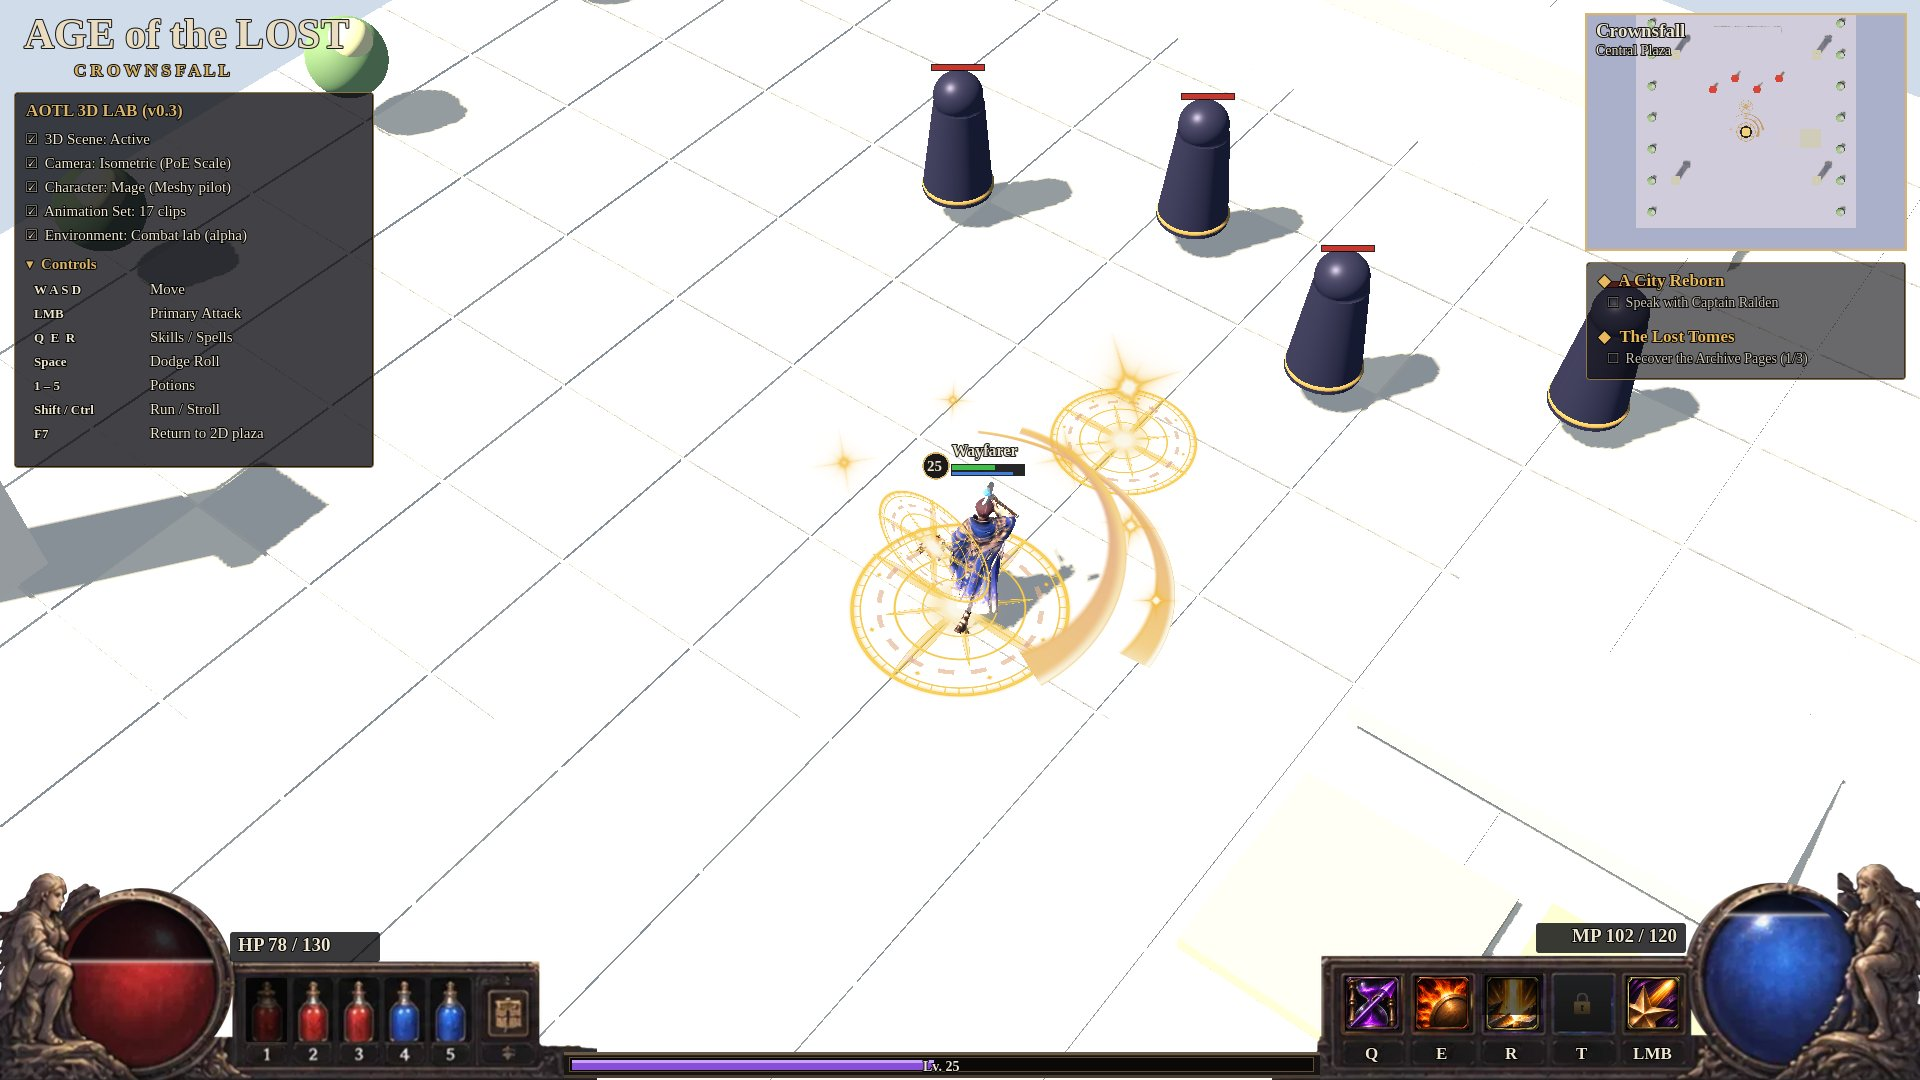
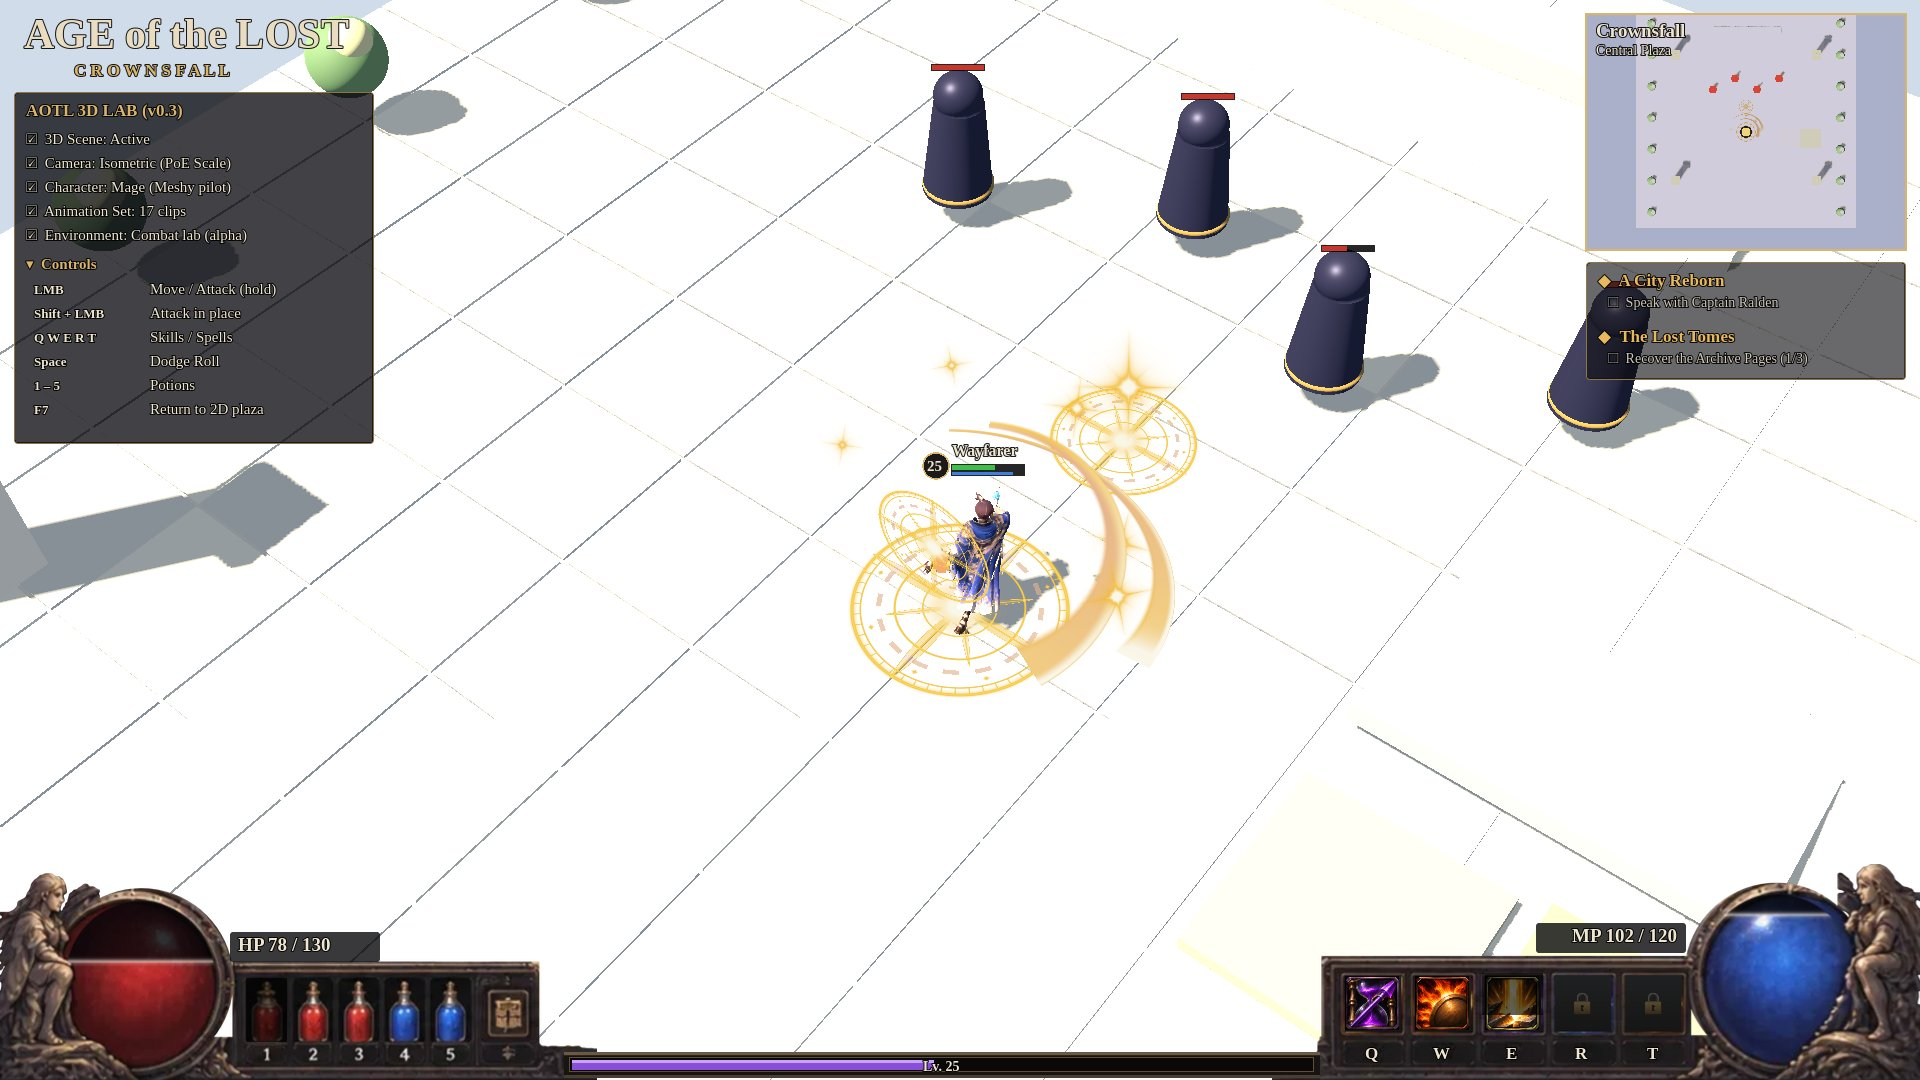
Click-to-move controls for the ARPG labs (Diablo/PoE style)
Owner: the game is click-to-move, not WASD. LMB on the ground walks there
(hold to follow the cursor), LMB on an enemy walks into range and attacks
(Slash 1.6 m, Bolt 5.4 m; hold to keep attacking), Shift+LMB attacks in
place, Q W E R T cast toward the cursor, Space dodges toward it. Skill bar
now reads Q W E R T like the mockup. Bolt/Lance hit at projectile reach.
Legacy debug labs keep WASD. Tests: arpg_hud 52/52, regression 994/994.

Claude-Session: https://claude.ai/code/session_01HXUneWBipxvB69FSMXEcEC

diff --git a/game/crownsfall_lootslice/docs/ARPG_HUD_QA_2026-11-20.md b/game/crownsfall_lootslice/docs/ARPG_HUD_QA_2026-11-20.md
@@ -62,3 +62,16 @@ Not yet: the lab is still a white test floor, not the Crownsfall plaza of the mo
   meniscus, replacing the hard polygon lens. Label plates darkened to match the mockup.
 - Tests: arpg_hud 42/42 (adds equal ring size, 1:1 draw and shader-fill checks); regression 994/994.
 - Limit: source is phone-screenshot quality; a pixel-sharp 1:1 version needs a high-res redraw of the same art.
+
+## Revision 5 — click-to-move (owner: "this game isn't WASD to move, it's a click to move game like Diablo 4, PoE,
+## Last Epoch, Grim Dawn")
+- Pilot labs (ARPG HUD) are click-to-move: **LMB on the ground** walks there (hold to keep following the cursor; a
+  small gold ring marks the destination); **LMB on an enemy** walks into range and attacks (Warrior Slash at 1.6 m,
+  Mage Bolt at 5.4 m; holding LMB keeps attacking); **Shift+LMB** attacks in place toward the cursor;
+  **Q W E R T** cast toward the cursor (Q Lance/Cleave, W Nova/Dash, E Judgment/Cast, R and T reserved);
+  **Space** dodges toward the cursor; **1–5** potions. WASD is ignored in this mode.
+- The skill bar now reads Q W E R T exactly like the mockup (W no longer clashes with movement).
+- Bolt and Lance hit at their projectile reach (narrow cone + line of sight) instead of the generic 3.3 m Cast range.
+- Legacy debug labs keep WASD so the existing regression suite is unchanged.
+- Tests: arpg_hud 52/52 (ground click arrival, WASD ignored, cursor enemy pick, walk-into-range attack for Mage and
+  Knight, Shift+LMB in place, W casts); mage 83/83; knight lab 29/29; armed knight 41/41; regression 994/994.
